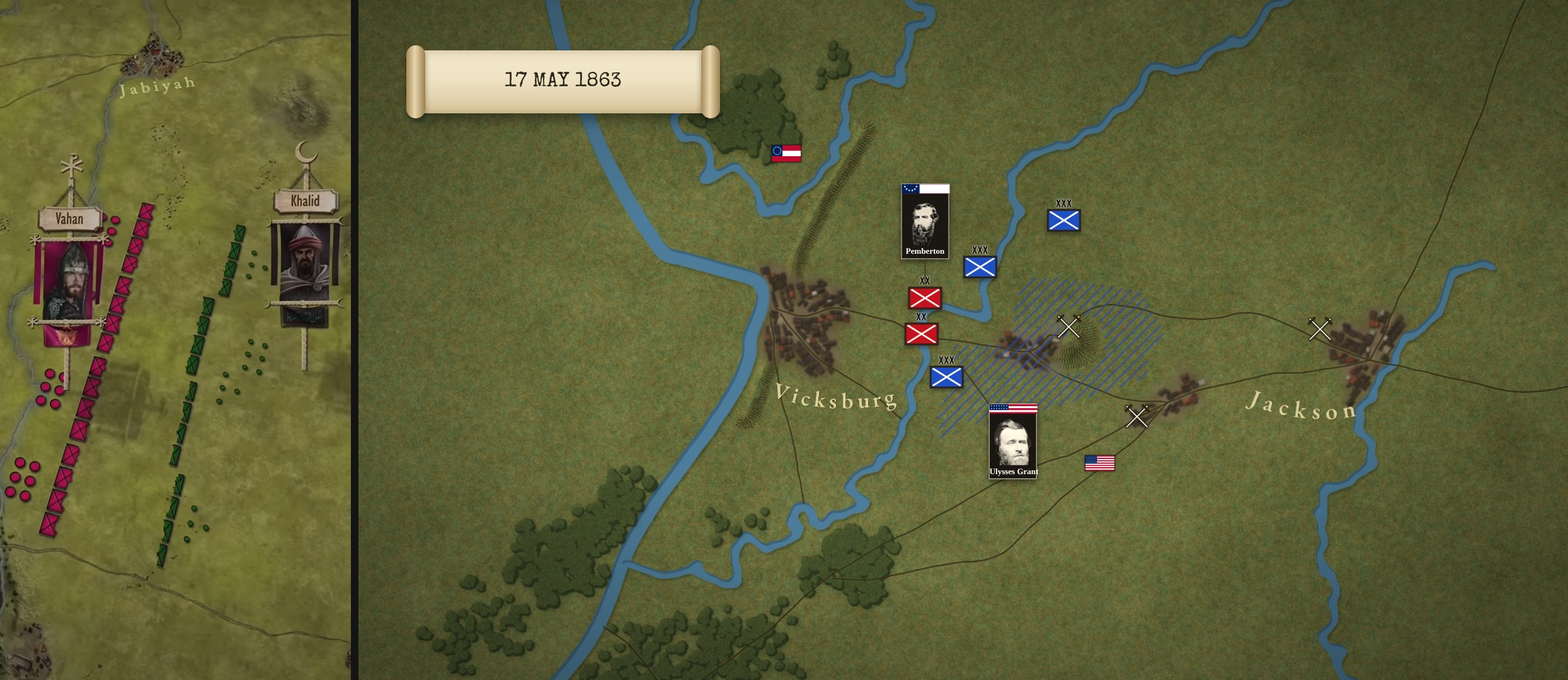
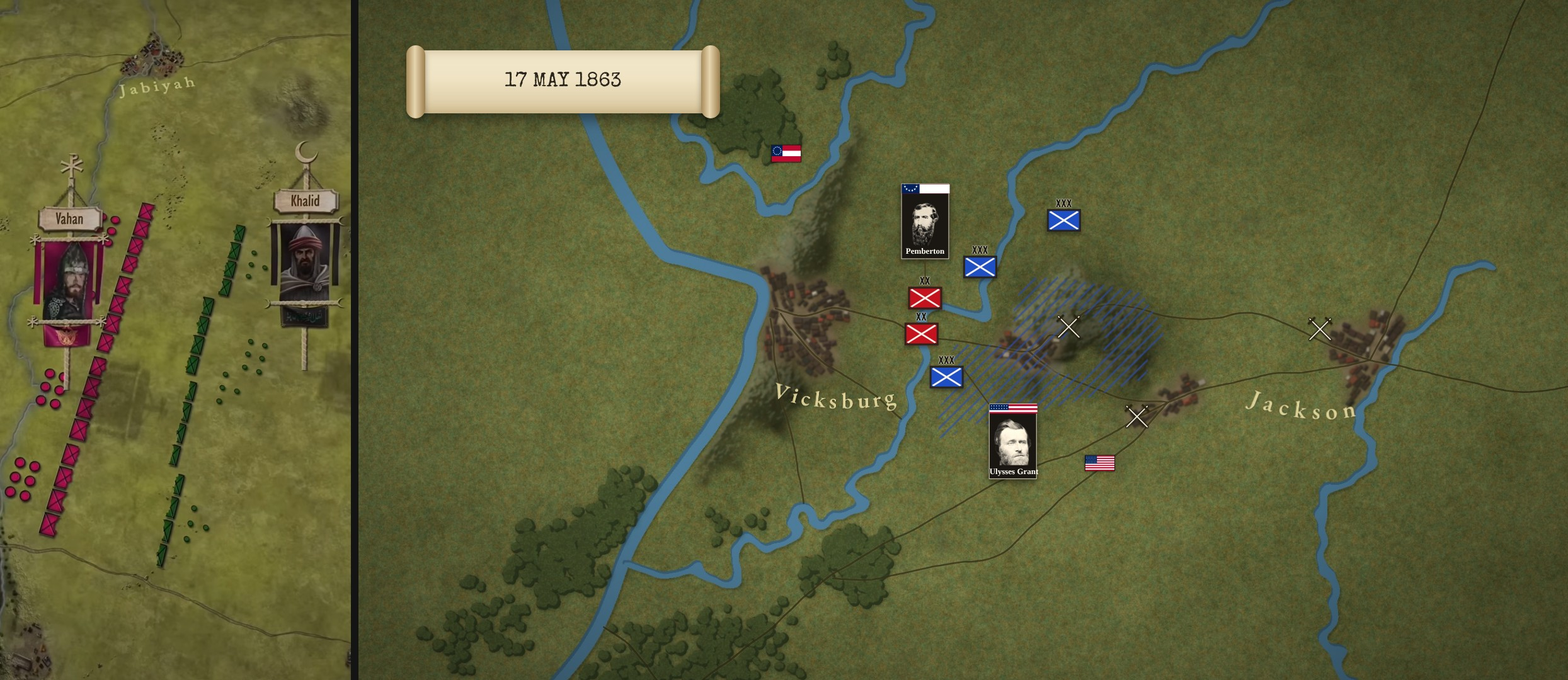
Hills integrated into roads/towns snapshot (softened)
Claude-Session: https://claude.ai/code/session_011uJnj9PFzMNram5mgUPnoT

Changed region(s): [[0.6187, 0.3972, 0.7425, 0.6111], [0.495, 0.1833, 0.5569, 0.4278], [0.4331, 0.5194, 0.5259, 0.7028]]

diff --git a/grant/scenes-src/s12d_rt.js b/grant/scenes-src/s12d_rt.js
@@ -419,6 +419,16 @@ const RTM = {"S": 1.9, "ppu": 2.0, "towns": {"vicksburg": {"name": "Vicksburg", 
 let RTSV = null; const RTIMG = {};
 const RTL = document.createElement("div"); RTL.style.cssText = "position:absolute;left:0;top:0;width:2880px;height:1620px;pointer-events:none";
 document.getElementById("relief2").after(RTL);   // above both basemaps, under hatching / territory / overlay / pins
+// painted hills (research/style_tests/roads_towns/hills, softened copy in hills/soft): wide art right above #relief (so #relief2 covers it
+// when the close look takes over), close art right above #relief2 with #relief2's own opacity + lens mask; towns + roads stay above both
+const RTH = [], RTHC = [];
+["champion_hill", "vicksburg_bluffs"].forEach((h) => { [["", RTH, "relief"], ["_close", RTHC, "relief2"]].forEach(([suf, arr, after]) => {
+  const im = document.createElement("img"); im.src = `assets/rt/hill_${h}${suf}.png`; im.alt = "";
+  im.style.cssText = "position:absolute;left:0;top:0;width:2880px;height:1620px;pointer-events:none";
+  const ref = document.getElementById(after); (arr.length ? arr[arr.length - 1] : ref).after(im); arr.push(im); }); });
+const rtHillSync = () => { const R2 = document.getElementById("relief2"); RTHC.forEach((im) => { im.style.opacity = R2.style.opacity;
+  im.style.webkitMaskImage = im.style.maskImage = R2.style.maskImage || "none"; }); };
+CURV.push([{ setAttribute: () => rtHillSync() }, 1]); rtHillSync();
 { const sv = document.createElementNS("http://www.w3.org/2000/svg", "svg"); sv.setAttribute("viewBox", "0 0 2880 1620"); sv.setAttribute("width", "2880"); sv.setAttribute("height", "1620");
   sv.style.cssText = "position:absolute;left:0;top:0;overflow:visible";
   const lay = [["#c4ba80", 5.0, 0.07], ["#2b2712", RW[0], RW[2]], ["#8e8656", RW[1], RW[3]]], PS = [];

diff --git a/grant/tools/s12_body_s12d_rt.js b/grant/tools/s12_body_s12d_rt.js
@@ -14,6 +14,16 @@ const RTM = {"S": 1.9, "ppu": 2.0, "towns": {"vicksburg": {"name": "Vicksburg", 
 let RTSV = null; const RTIMG = {};
 const RTL = document.createElement("div"); RTL.style.cssText = "position:absolute;left:0;top:0;width:2880px;height:1620px;pointer-events:none";
 document.getElementById("relief2").after(RTL);   // above both basemaps, under hatching / territory / overlay / pins
+// painted hills (research/style_tests/roads_towns/hills, softened copy in hills/soft): wide art right above #relief (so #relief2 covers it
+// when the close look takes over), close art right above #relief2 with #relief2's own opacity + lens mask; towns + roads stay above both
+const RTH = [], RTHC = [];
+["champion_hill", "vicksburg_bluffs"].forEach((h) => { [["", RTH, "relief"], ["_close", RTHC, "relief2"]].forEach(([suf, arr, after]) => {
+  const im = document.createElement("img"); im.src = `assets/rt/hill_${h}${suf}.png`; im.alt = "";
+  im.style.cssText = "position:absolute;left:0;top:0;width:2880px;height:1620px;pointer-events:none";
+  const ref = document.getElementById(after); (arr.length ? arr[arr.length - 1] : ref).after(im); arr.push(im); }); });
+const rtHillSync = () => { const R2 = document.getElementById("relief2"); RTHC.forEach((im) => { im.style.opacity = R2.style.opacity;
+  im.style.webkitMaskImage = im.style.maskImage = R2.style.maskImage || "none"; }); };
+CURV.push([{ setAttribute: () => rtHillSync() }, 1]); rtHillSync();
 { const sv = document.createElementNS("http://www.w3.org/2000/svg", "svg"); sv.setAttribute("viewBox", "0 0 2880 1620"); sv.setAttribute("width", "2880"); sv.setAttribute("height", "1620");
   sv.style.cssText = "position:absolute;left:0;top:0;overflow:visible";
   const lay = [["#c4ba80", 5.0, 0.07], ["#2b2712", RW[0], RW[2]], ["#8e8656", RW[1], RW[3]]], PS = [];

diff --git a/research/style_tests/roads_towns/hills/make_hill.py b/research/style_tests/roads_towns/hills/make_hill.py
@@ -178,7 +178,10 @@ def rgba_from(base, comp, core):
 
 
 # ---------------------------------------------------------------- the painter
-def render_hills(base, shapes, clean=True, erase=(), seed=1, rough=1.0, shadow=1.0, halo=1.0, light_az=315.0, light_el=38.0):
+def render_hills(base, shapes, clean=True, erase=(), seed=1, rough=1.0, shadow=1.0, halo=1.0, light_az=315.0, light_el=38.0,
+                 blur=0.7, warm=1.0):
+    """blur = softening of the painted colour in image px (0.7 default; ~1.2 = ~1 px at 1080p on s12d_rt);
+    warm = highlight warmth (1.0 default; <1 cooler / greyer lit faces)."""
     base = np.asarray(base)[..., :3]
     Hh, Ww = base.shape[:2]
     ex = np.array([s.extent() for s in shapes]); size = max(ex[:, 2].max() - ex[:, 0].min(), ex[:, 3].max() - ex[:, 1].min())
@@ -246,13 +249,13 @@ def render_hills(base, shapes, clean=True, erase=(), seed=1, rough=1.0, shadow=1
     grain = np.clip(G0 / np.maximum(G, 1), 0.7, 1.3)                                       # painterly grain of the basemap
     lumG = G.mean(2, keepdims=True)
     desat = lambda c, k: c * (1 - k) + c.mean(2, keepdims=True) * k
-    hi = desat(G, 0.7) * np.array([1.12, 1.09, 1.0]) + np.array([12, 10, 6])            # tan-grey lit faces
+    hi = desat(G, 0.7) * (1 + (np.array([1.12, 1.09, 1.0]) - 1) * warm) + np.array([12, 10, 6]) * (0.4 + 0.6 * warm)            # tan-grey lit faces
     bodyc = desat(G, 0.35) * 0.86                                                          # the hill reads a touch darker than grass
     lo = desat(G, 0.25) * 0.55 * np.array([1.0, 1.0, 0.85])                                # olive-charcoal shade
     s3 = shade[..., None]
     col = np.where(s3 > 0, bodyc + (hi - bodyc) * np.clip(s3 * 1.25, 0, 1) ** 1.6, bodyc + (lo - bodyc) * np.clip(-s3, 0, 1))
     col = col * (grain ** 0.6)
-    col = cv2.GaussianBlur(col, (0, 0), 0.7)
+    col = cv2.GaussianBlur(col, (0, 0), blur)
     # broad tonal mass: SE half of the hill is darker overall, NW crest a little lighter
     big = cv2.GaussianBlur(hgt, (0, 0), rsz * 0.35); bgy, bgx = np.gradient(big)
     bm = np.hypot(bgx, bgy).max() + 1e-6; bshade = (-(bgx * lx + bgy * ly) / bm)[..., None]
@@ -262,6 +265,8 @@ def render_hills(base, shapes, clean=True, erase=(), seed=1, rough=1.0, shadow=1
     edge_n = fbm(h, w, rsz * 0.25, 3, seed + 6)
     a_body = smoothstep(-0.08, 0.85, hgt + 0.12 * edge_n) ** 1.3
     a_body = np.clip(a_body * (0.9 + 0.1 * np.clip(crumple * 2 + 0.5, 0, 1)), 0, 1)
+    if blur > 0.7:
+        a_body = cv2.GaussianBlur(a_body, (0, 0), blur)
     # ---- halo + cast shadow (wide feather into the grass, heavier to the SE)
     sup = smoothstep(0.0, 0.25, hgt)
     off = rsz * 0.22

diff --git a/research/style_tests/roads_towns/make_body.py b/research/style_tests/roads_towns/make_body.py
@@ -29,6 +29,16 @@ const RTM = %s, RTD = %s, RW = %s;
 let RTSV = null; const RTIMG = {};
 const RTL = document.createElement("div"); RTL.style.cssText = "position:absolute;left:0;top:0;width:2880px;height:1620px;pointer-events:none";
 document.getElementById("relief2").after(RTL);   // above both basemaps, under hatching / territory / overlay / pins
+// painted hills (research/style_tests/roads_towns/hills, softened copy in hills/soft): wide art right above #relief (so #relief2 covers it
+// when the close look takes over), close art right above #relief2 with #relief2's own opacity + lens mask; towns + roads stay above both
+const RTH = [], RTHC = [];
+["champion_hill", "vicksburg_bluffs"].forEach((h) => { [["", RTH, "relief"], ["_close", RTHC, "relief2"]].forEach(([suf, arr, after]) => {
+  const im = document.createElement("img"); im.src = `assets/rt/hill_${h}${suf}.png`; im.alt = "";
+  im.style.cssText = "position:absolute;left:0;top:0;width:2880px;height:1620px;pointer-events:none";
+  const ref = document.getElementById(after); (arr.length ? arr[arr.length - 1] : ref).after(im); arr.push(im); }); });
+const rtHillSync = () => { const R2 = document.getElementById("relief2"); RTHC.forEach((im) => { im.style.opacity = R2.style.opacity;
+  im.style.webkitMaskImage = im.style.maskImage = R2.style.maskImage || "none"; }); };
+CURV.push([{ setAttribute: () => rtHillSync() }, 1]); rtHillSync();
 { const sv = document.createElementNS("http://www.w3.org/2000/svg", "svg"); sv.setAttribute("viewBox", "0 0 2880 1620"); sv.setAttribute("width", "2880"); sv.setAttribute("height", "1620");
   sv.style.cssText = "position:absolute;left:0;top:0;overflow:visible";
   const lay = [["#c4ba80", 5.0, 0.07], ["#2b2712", RW[0], RW[2]], ["#8e8656", RW[1], RW[3]]], PS = [];

diff --git a/research/style_tests/roads_towns/soft_hills.py b/research/style_tests/roads_towns/soft_hills.py
@@ -1,0 +1,16 @@
+"""s12d_rt: softer hills (rough 0.8, blur ~1 px at 1080p, cooler highlights) -> hills/soft/ (originals untouched)"""
+import json, sys
+sys.path.insert(0, '/home/user/battle-maps/research/style_tests/roads_towns/hills')
+import numpy as np
+from PIL import Image
+import make_hill as M
+OUT = '/home/user/battle-maps/research/style_tests/roads_towns/hills/soft'
+KW = dict(rough=0.8, blur=1.2, warm=0.6)
+ridge = [(x * 2, y * 2) for x, y in json.load(open(f'{M.REPO}/grant/assets/src/vicksburg_story.json'))['ridge']]
+for key, suffix in (('w', ''), ('w_close', '_close')):
+    base = np.asarray(Image.open(f'{M.ASSETS}/vicksburg_{key}.jpg').convert('RGB'))
+    rgba, comp, bb = M.render_hills(base, M.champion_shapes(), erase=[('circle', 3268, 1414, 74)], seed=11, shadow=1.0, **KW)
+    Image.fromarray(rgba).save(f'{OUT}/champion_hill{suffix}.png', optimize=True)
+    rgba2, comp2, bb2 = M.render_hills(base, M.bluffs_shapes(), erase=[('line', ridge, 46)], seed=5, shadow=0.9, **KW)
+    Image.fromarray(rgba2).save(f'{OUT}/vicksburg_bluffs{suffix}.png', optimize=True)
+    print(key, bb, bb2)
